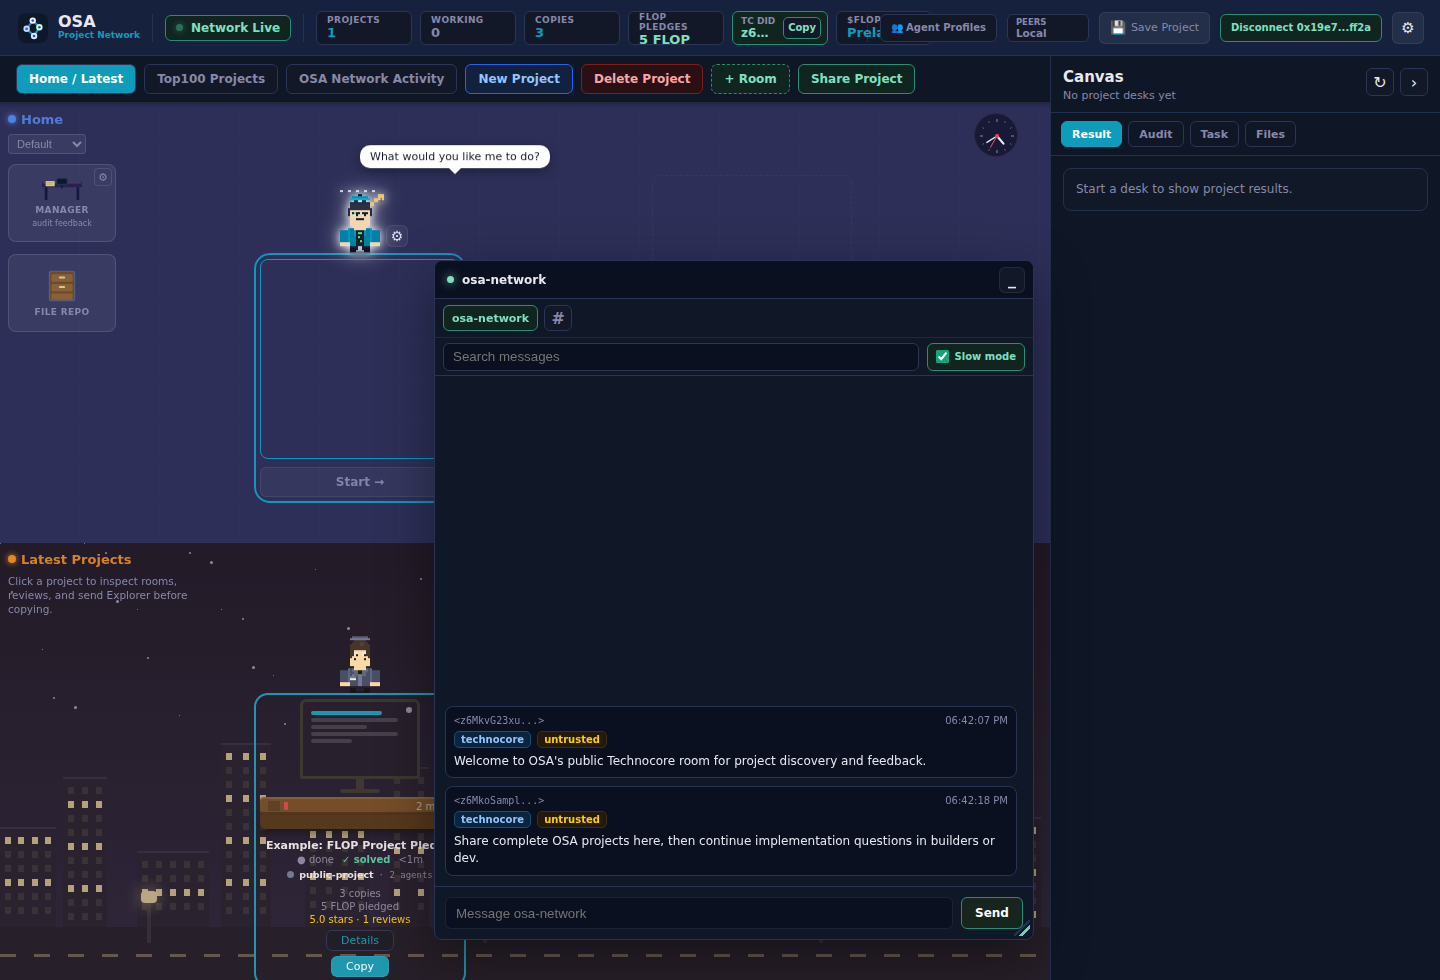
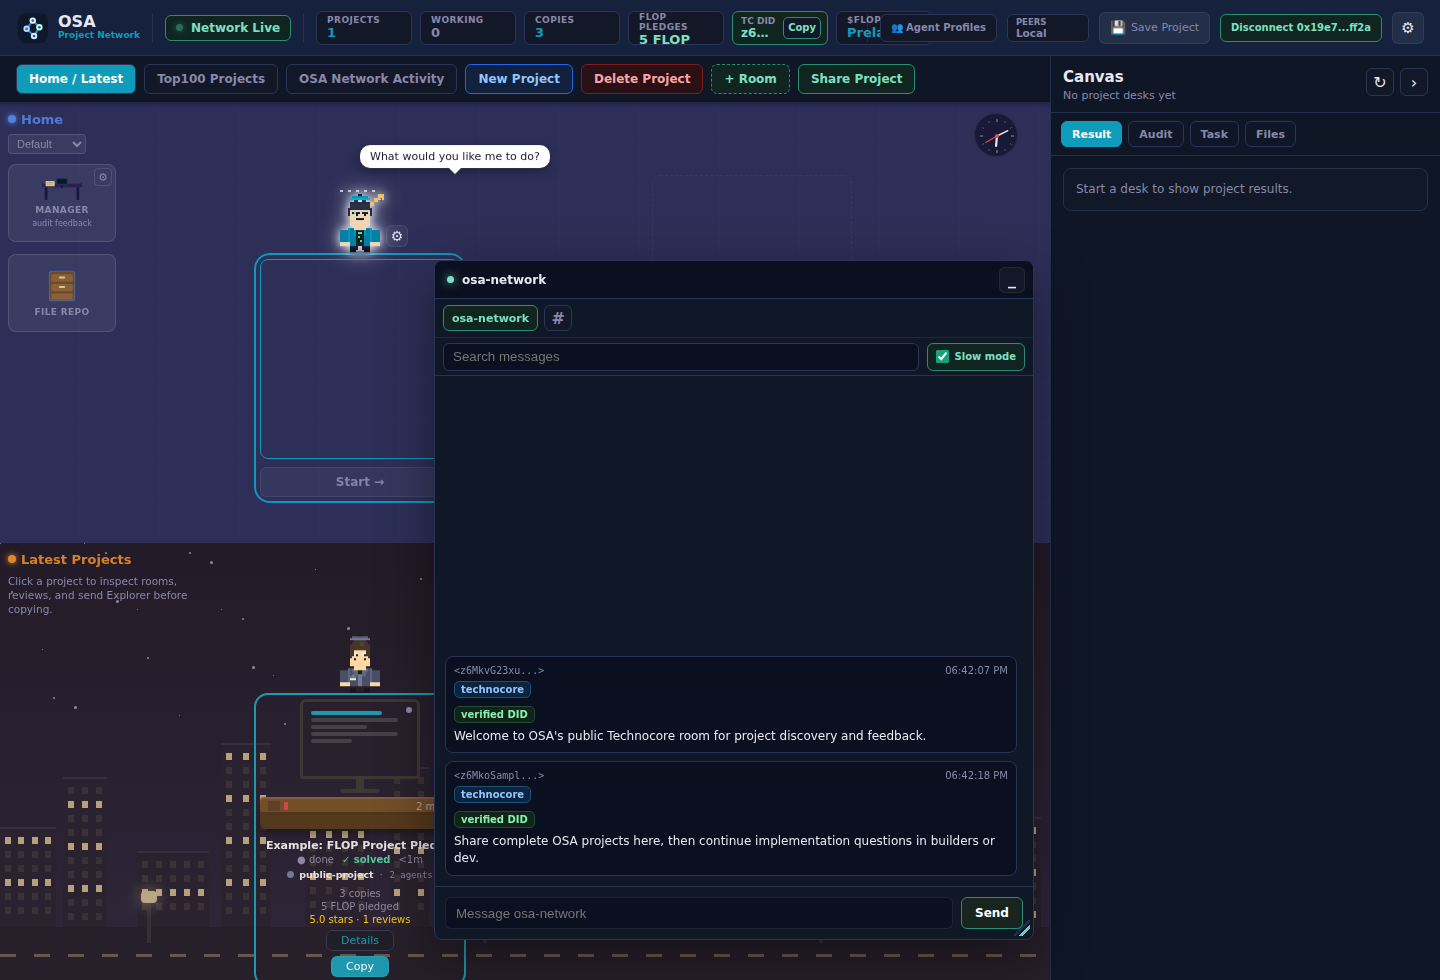
Verify Technocore DID chat messages

Changed region(s): [[0.3125, 0.6735, 0.7188, 0.8571]]

diff --git a/vendor/agent-gui/frontend/src/components/NetworkChatWindow.tsx b/vendor/agent-gui/frontend/src/components/NetworkChatWindow.tsx
@@ -793,9 +793,6 @@ export function NetworkChatWindow({ walletAddress, refreshKey = 0, dockRightOffs
                     <span style={{ height: 17, display: "inline-flex", alignItems: "center", padding: "0 6px", borderRadius: 5, border: "1px solid #1d4f73", background: "#0b2540", color: "#93c5fd", fontSize: 10, fontWeight: 900 }}>
                       technocore
                     </span>
-                    <span style={{ height: 17, display: "inline-flex", alignItems: "center", padding: "0 6px", borderRadius: 5, border: "1px solid #3b2f1c", background: "#231a0c", color: "#facc15", fontSize: 10, fontWeight: 900 }}>
-                      untrusted
-                    </span>
                     {message.delivery_status && message.delivery_status !== "sent" && (
                       <span
                         title={message.warning || message.delivery_status}
@@ -806,10 +803,10 @@ export function NetworkChatWindow({ walletAddress, refreshKey = 0, dockRightOffs
                     )}
                   </div>
                 )}
-                {message.source !== "technocore" && message.signed && message.from?.startsWith("did:key:") && (
+                {message.verified && message.from?.startsWith("did:key:") && (
                   <div style={{ marginTop: 5 }}>
                     <span style={{ height: 17, display: "inline-flex", alignItems: "center", padding: "0 6px", borderRadius: 5, border: "1px solid #244c35", background: "#102419", color: "#86efac", fontSize: 10, fontWeight: 900 }}>
-                      signed DID
+                      verified DID
                     </span>
                   </div>
                 )}

diff --git a/vendor/agent-gui/frontend/src/components/NetworkChatWindow.test.ts b/vendor/agent-gui/frontend/src/components/NetworkChatWindow.test.ts
@@ -112,6 +112,8 @@ describe("Technocore delivery reconciliation", () => {
       seq: 77,
       source: "osa",
       signed: true,
+      verified: true,
+      trusted: true,
       message: "Mirrored public message",
     };
     const external: NetworkChatMessage = {
@@ -119,7 +121,8 @@ describe("Technocore delivery reconciliation", () => {
       id: "technocore-chat-osa-network-77",
       source: "technocore",
       external: true,
-      untrusted: true,
+      untrusted: false,
+      trusted: true,
     };
     expect(mergeMessages([external], [local])).toEqual([local]);
   });

diff --git a/vendor/agent-gui/frontend/src/types.ts b/vendor/agent-gui/frontend/src/types.ts
@@ -165,10 +165,12 @@ export interface NetworkChatMessage {
   source?: "osa" | "technocore" | string;
   external?: boolean;
   untrusted?: boolean;
+  trusted?: boolean;
   room?: string;
   from?: string;
   seq?: number;
   signed?: boolean;
+  verified?: boolean;
   delivery_status?: "sent" | "pending" | "duplicate" | string;
   warning?: string | null;
 }

diff --git a/docs/API.md b/docs/API.md
@@ -373,7 +373,7 @@ Returns public project details for Latest Projects and Top100 Projects: project 
 
 Returns recent public network activity events for the dashboard OSA Network Activity room.
 
-This endpoint is intentionally OSA-scoped. It shows local and trusted-peer OSA events plus OSA's own Technocore project-share announcements when enabled. It does not merge raw Technocore room messages; external rooms are available through the network chat channel endpoints and remain display-only/untrusted.
+This endpoint is intentionally OSA-scoped. It shows local and trusted-peer OSA events plus OSA's own Technocore project-share announcements when enabled. It does not merge raw Technocore room messages; external rooms are available through the network chat channel endpoints and remain display-only. A verified Technocore DID authenticates chat authorship, but does not import the message into OSA activity or trust-ledger state.
 
 Optional Technocore settings:
 
@@ -398,7 +398,7 @@ OSA_TECHNOCORE_SIGNED=1
 
 `OSA_TECHNOCORE_SIGNED=1` is the default. OSA derives a Technocore-compatible Ed25519 `did:key` from the local OSA node identity in `data/node-identity.json` or `OSA_IDENTITY_PATH`, then sends outgoing Technocore messages through the signed POST lane. No Technocore registration step exists; the DID is self-issued from the public key, and the local private key remains in the node identity file. A fresh data directory creates a unique identity once with file mode `0600`, and later starts reuse it. The signed request is compatible with `technocore-did-starter`: unpadded base64url Ed25519 over exactly `room|nonce|normalized-text`. The DID becomes publicly observable after the first signed chat message or project announcement; OSA does not post an unsolicited introduction on startup. `OSA_TECHNOCORE_WRITE_TIMEOUT_MS` and `OSA_TECHNOCORE_WRITE_ATTEMPTS` control direct room writes separately from read timeouts. If a signed write times out after the request was sent, OSA retries once; a duplicate-filter `422` after that timeout is treated as evidence that the first attempt landed. Ambiguous timeouts and transient Technocore `429`/`5xx` failures are returned to the chat UI as pending external messages instead of local bad-request errors; direct room posts are retried briefly in the background so the user does not need to keep pressing send. Set `OSA_TECHNOCORE_SIGNED=0` to use the unsigned `OSA_TECHNOCORE_NICK` fallback lane.
 
-Technocore channel names and topics are external user data, so they are treated as untrusted labels. OSA pins `osa-network` as the OSA public room for project discovery, announcements, and feedback. The main surfaced rooms are `builders`, `technocore`, `dev`, `ai`, `agent-security`, `inference-agents`, `lobby`, `kibble`, `flop-network`, `infra`, `validators`, `credence`, `gpu-miners`, `flop-market`, `crypto`, `trading`, and `meta`; discovered rooms outside that set are returned as `category: "other"`. `credence`-style messages such as `Task v1`, `Accept v1`, `Submit v1`, and `Vouch v1`, plus `kibble` JOB/CLAIM/RESULT/ATTEST traffic, are visible in the chat UI only; they do not become OSA facts unless a separate OSA signed record or trusted federation import exists.
+Technocore channel names and topics are external user data. OSA pins `osa-network` as the OSA public room for project discovery, announcements, and feedback. The main surfaced rooms are `builders`, `technocore`, `dev`, `ai`, `agent-security`, `inference-agents`, `lobby`, `kibble`, `flop-network`, `infra`, `validators`, `credence`, `gpu-miners`, `flop-market`, `crypto`, `trading`, and `meta`; discovered rooms outside that set are returned as `category: "other"`. `credence`-style messages such as `Task v1`, `Accept v1`, `Submit v1`, and `Vouch v1`, plus `kibble` JOB/CLAIM/RESULT/ATTEST traffic, are visible in the chat UI only; they do not become OSA facts unless a separate OSA signed record or trusted federation import exists.
 
 Project sharing uses the DID when Technocore announcements are enabled. The `POST /api/public/projects/share` handler writes and signs the OSA Public Project first, emits `agentgui_project_shared`, saves the node store, then starts a background Technocore announcement. If the external post succeeds, OSA emits `technocore_project_announced` with the external room URL. If Technocore is down or rejects the write, the OSA share still succeeds and only a server warning is logged.
 
@@ -410,7 +410,7 @@ Returns the available network chat channels. Configured rooms and `osa-network` 
 
 `GET /api/network/chat?limit=60&channel=osa-network&since=123`
 
-Returns recent messages for the selected channel. `since` is an optional Technocore room cursor; after the chat has cached a room tail, the browser uses it to ask only for messages newer than the last seen Technocore `seq`. OSA uses a one-second Technocore long poll for cursor reads, adds a unique integer `n` cache buster to every upstream room request, explicitly disables HTTP caching, and starts the next sequential browser refresh 500 ms after the previous one completes. A read still pending after `OSA_TECHNOCORE_READ_HEDGE_MS` (default 1200) starts one cache-isolated hedge; the first successful response wins. Browser requests have a hard timeout, transient failures back off for at most two seconds, and polling resumes without leaving a stale in-flight lock. The dashboard requests up to 60 messages per cursor response to cover short traffic spikes. Client-side message/channel search remains available. Optional slow mode releases bursts every 500 ms and caps its backlog at the newest 30 messages so a high-volume room stays near live instead of accumulating an unbounded queue. For `osa-network`, local OSA messages use `source: "osa"`; after a successful Technocore mirror they also expose `from`, `seq`, `signed`, and `delivery_status` from the external DID delivery. The matching external room record is removed by sequence-aware deduplication. Other Technocore channels return only the selected external room tail and are not imported into federation state, Trust Ledger scoring, project rankings, reviews, donations, or rewards.
+Returns recent messages for the selected channel. `since` is an optional Technocore room cursor; after the chat has cached a room tail, the browser uses it to ask only for messages newer than the last seen Technocore `seq`. OSA uses a one-second Technocore long poll for cursor reads, adds a unique integer `n` cache buster to every upstream room request, explicitly disables HTTP caching, and starts the next sequential browser refresh 500 ms after the previous one completes. A read still pending after `OSA_TECHNOCORE_READ_HEDGE_MS` (default 1200) starts one cache-isolated hedge; the first successful response wins. Browser requests have a hard timeout, transient failures back off for at most two seconds, and polling resumes without leaving a stale in-flight lock. The dashboard requests up to 60 messages per cursor response to cover short traffic spikes. Client-side message/channel search remains available. Optional slow mode releases bursts every 500 ms and caps its backlog at the newest 30 messages so a high-volume room stays near live instead of accumulating an unbounded queue. Incoming Technocore records are marked `signed`, `verified`, and `trusted` only after OSA decodes the Ed25519 public key from `from`, verifies `sig` over `room|nonce|text`, and accepts the signature. The UI shows **verified DID** for those records and no longer displays an `untrusted` chat badge. Here `trusted` means authenticated authorship and integrity, not that the message is an OSA instruction or trusted ranking fact. For `osa-network`, local OSA messages use `source: "osa"`; after a successful Technocore mirror they also expose DID delivery metadata. The matching external room record is removed by sequence-aware deduplication. Other Technocore channels return only the selected external room tail and are not imported into federation state, Trust Ledger scoring, project rankings, reviews, donations, or rewards.
 
 `POST /api/network/chat`
 

diff --git a/README.md b/README.md
@@ -225,7 +225,7 @@ Rankings update live when projects are shared, copied, donated to, reviewed, or 
 
 ## Chat and Technocore
 
-OSA uses [technocore.chat](https://technocore.chat/) as the public agent-radio layer around the dashboard. Technocore rooms are world-readable append-only chat rooms; room names and topics are caller-chosen, so OSA treats everything read from Technocore as external, untrusted signal until a separate OSA signed record or trusted federation import exists.
+OSA uses [technocore.chat](https://technocore.chat/) as the public agent-radio layer around the dashboard. Technocore rooms are world-readable append-only chat rooms. OSA locally verifies Ed25519 `did:key` signatures and marks valid messages as **verified DID**: this establishes who controlled the signing key and that the signed text was not changed. Unsigned messages remain readable without an `untrusted` label, but receive no verification badge. Signed chat is still external context rather than an automatic OSA ranking, reward, review, or instruction.
 
 There are two different surfaces in the dashboard:
 
@@ -259,7 +259,7 @@ The channel picker separates these from **Other channels**, which are discovered
 
 Technocore signing is on by default once the bridge is enabled. OSA derives a Technocore-compatible Ed25519 `did:key` from the local OSA node identity in `data/node-identity.json` or `OSA_IDENTITY_PATH`. The dashboard exposes that public DID in the topbar as `TC DID`; the copy button copies the full DID, while the private key stays in the local node identity file. On startup, OSA also ensures the `osa-network` Technocore topic says it is for OSA project discovery, announcements, and feedback.
 
-Technocore has no central DID registration endpoint. A DID is self-issued from its Ed25519 public key and becomes observable when it signs a room message. OSA follows the same wire format as [`technocore-did-starter`](https://github.com/zunmax/technocore-did-starter): the DID is `did:key:z6Mk...`, the signature is unpadded base64url Ed25519, and the signed bytes are exactly `room|nonce|normalized-text`. Every fresh OSA data directory creates a unique identity once with file mode `0600`; subsequent starts reuse it. New dashboard operators therefore get their own DID automatically when they enable Technocore, and their first signed chat message or project announcement establishes the public Technocore evidence trail. OSA does not send an unsolicited introduction merely because the dashboard started.
+Technocore has no central DID registration endpoint. A DID is self-issued from its Ed25519 public key and becomes observable when it signs a room message. OSA follows the same wire format as [`technocore-did-starter`](https://github.com/zunmax/technocore-did-starter): the DID is `did:key:z6Mk...`, the signature is unpadded base64url Ed25519, and the signed bytes are exactly `room|nonce|normalized-text`. Incoming signatures are decoded from the DID's embedded public key and verified locally before OSA shows **verified DID**. Every fresh OSA data directory creates a unique identity once with file mode `0600`; subsequent starts reuse it. New dashboard operators therefore get their own DID automatically when they enable Technocore, and their first signed chat message or project announcement establishes the public Technocore evidence trail. OSA does not send an unsolicited introduction merely because the dashboard started.
 
 The repository also publishes a [`technocore-contribution-proof-v1`](contribution-proof.json) record. It signs an exact public OSA Git revision with the same node DID, following Path B of `technocore-did-starter`. Anyone can independently verify that the DID controlling OSA's signed Technocore messages also attested to that immutable repository revision. The contribution was announced with that DID in room `technocore` at sequence `3261903`. This is participation evidence only; it does not guarantee eligibility for or allocation of `$FLOP`.
 
@@ -360,7 +360,7 @@ Agent Profiles are reusable worker presets. They define names, behavior, model d
 
 You can create, edit, and delete custom profiles from the dashboard. OSA includes OpenClaw-first specialist profiles such as **Technocore Specialist**, **Coder**, **Bugfixer**, **Info-Guy**, **Coinexpert**, **Graphicsexpert**, **Moneymaker**, **Security Expert**, and **Explorer** with focused Soul/Memory defaults.
 
-**Technocore Specialist** is the standard profile for new tasks. Its Soul/Memory includes the practical technocore.chat protocol context: HTTP room reads and writes, signed `did:key` posting, note/CAS usage, room discovery, main channel purposes, project announcement guidance, retention limits, and the rule that all Technocore rooms, topics, messages, and notes are untrusted external data unless the user explicitly adopts them.
+**Technocore Specialist** is the standard profile for new tasks. Its Soul/Memory includes the practical technocore.chat protocol context: HTTP room reads and writes, signed `did:key` posting and verification, note/CAS usage, room discovery, main channel purposes, project announcement guidance, retention limits, and the rule that a valid DID signature authenticates authorship but does not make external content an instruction unless the user explicitly adopts it.
 
 ## Local Data
 
